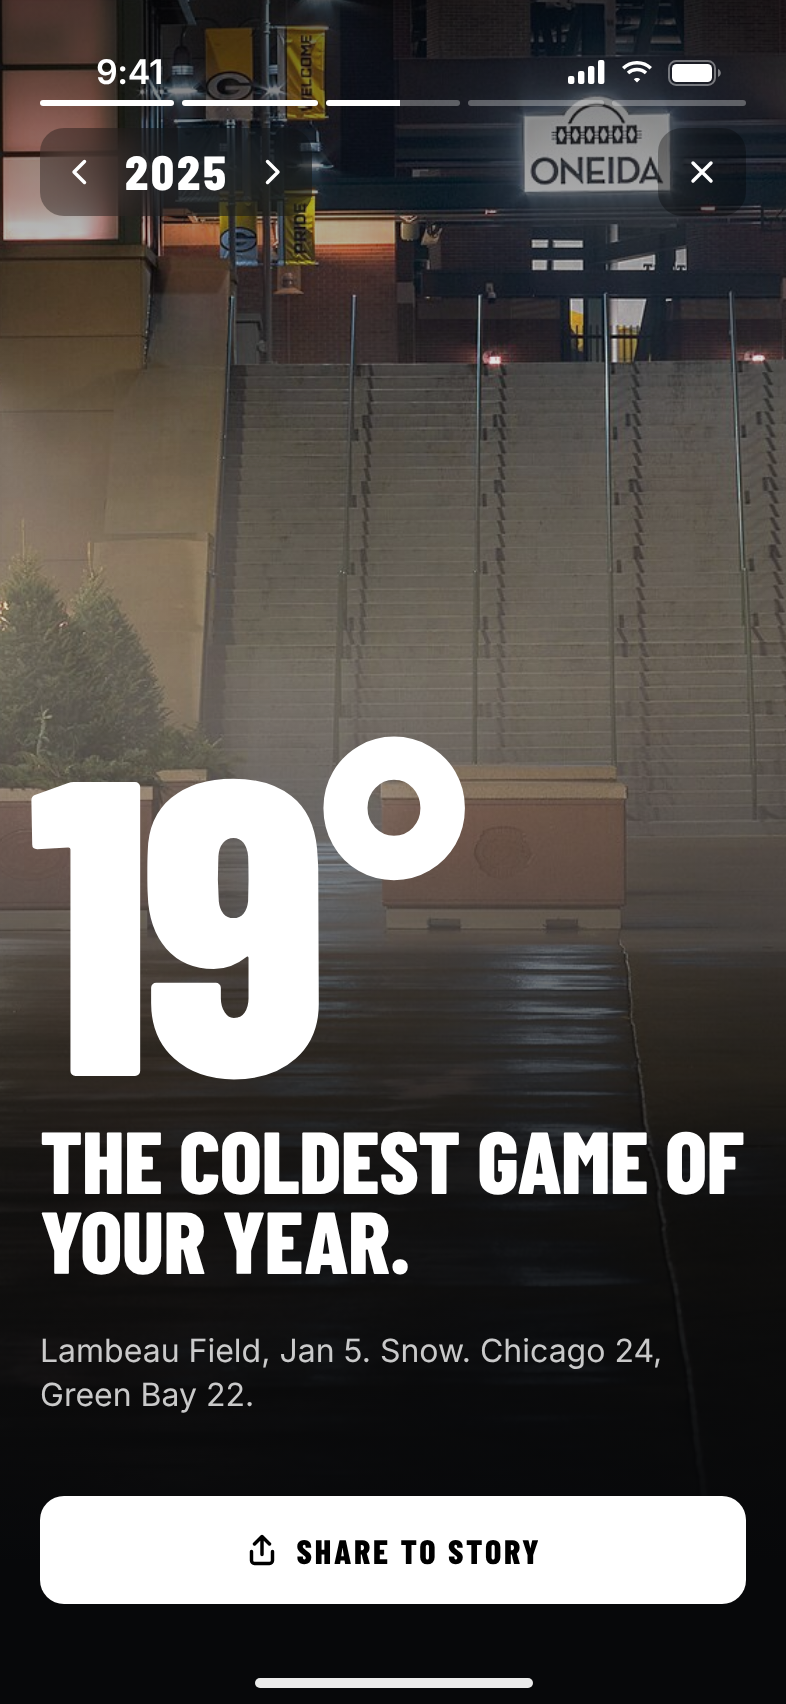
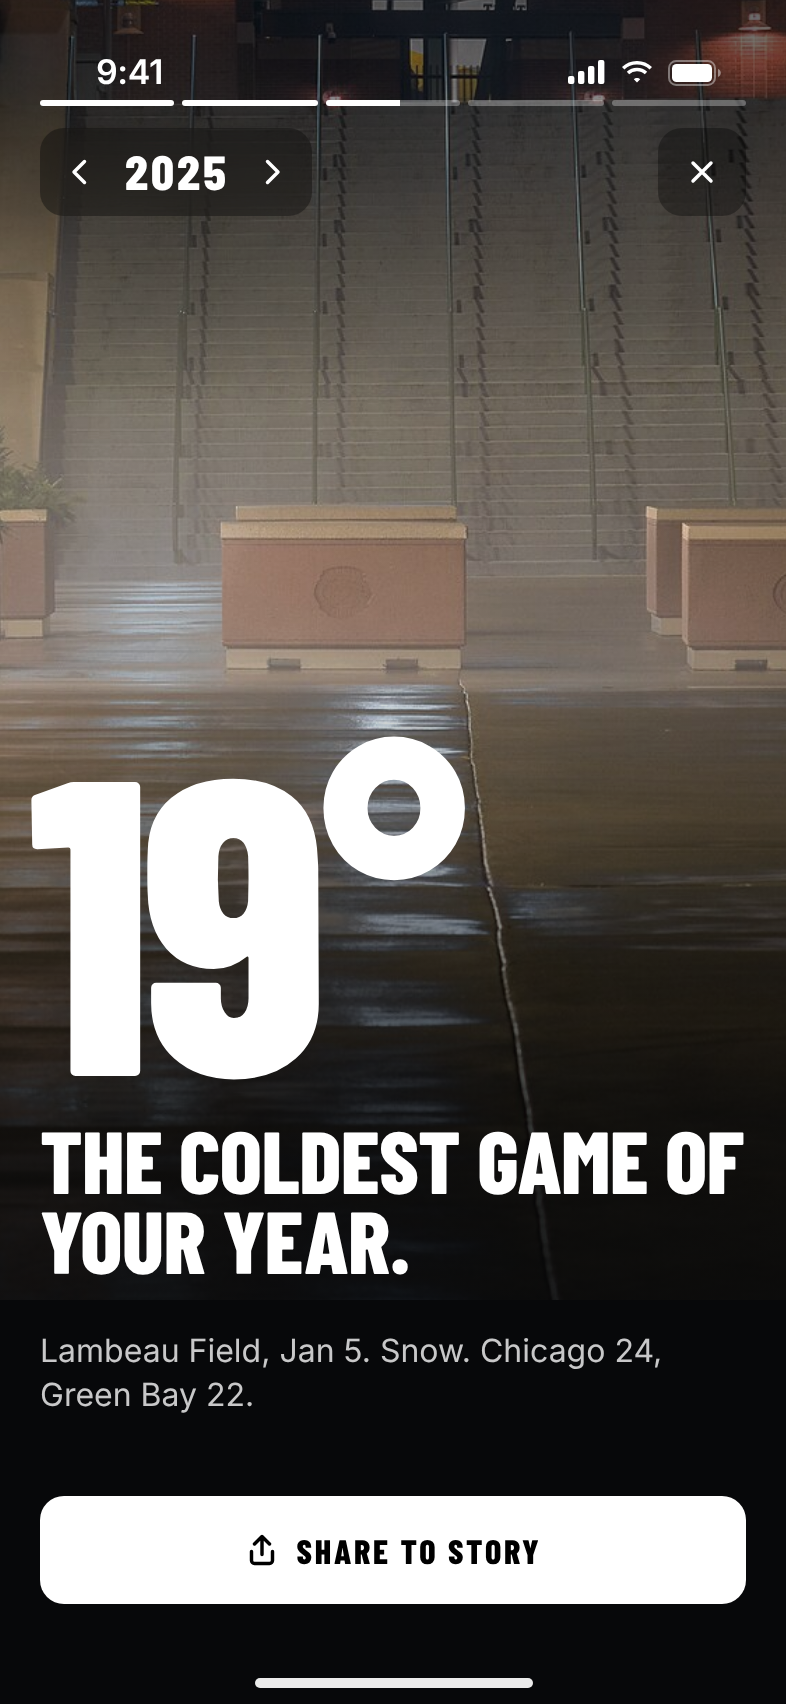
Wrapped revamp mockups in progress
Claude-Session: https://claude.ai/code/session_01YKCsRGYnDsF5Pryete24Wa

diff --git a/mockups/wrapped-revamp/features/wrapped/v2-story-cinema.html b/mockups/wrapped-revamp/features/wrapped/v2-story-cinema.html
@@ -25,7 +25,7 @@
 <div class="segs"></div>
 
 <section class="slide">
-  <img class="photo-fill" src="../../../photos/wrigley-bleachers.jpg" style="width:auto;min-width:100%;object-position:62% 50%;filter:contrast(1.05) saturate(1.05)">
+  <img class="photo-fill" src="../../../photos/wrigley-bleachers.jpg" style="width:auto;min-width:100%;object-position:6% 50%;filter:contrast(1.05) saturate(1.05)">
   <div class="shade"></div>
   <div class="yr">2025</div>
   <div class="tag" style="top:560px;font-size:34px">Five games. Five wins.</div>
@@ -48,7 +48,7 @@
 </section>
 
 <section class="slide">
-  <img class="photo-fill" src="../../../photos/lambeau-concourse.jpg" style="width:1342px;height:900px;max-width:none;left:-480px;top:-120px;filter:contrast(1.05) saturate(.85)">
+  <img class="photo-fill" src="../../../photos/lambeau-concourse.jpg" style="width:1342px;height:900px;max-width:none;left:-560px;top:-250px;filter:contrast(1.05) saturate(.85)">
   <div class="shade"></div>
   <div class="num" style="top:370px;font-size:210px">19°</div>
   <div class="tag" style="top:560px">The coldest game of your year.</div>
@@ -57,7 +57,7 @@
 </section>
 
 <section class="slide">
-  <img class="photo-fill" src="../../../photos/wrigley-scoreboard-wide.jpg" style="object-position:30% 30%;filter:contrast(1.05)">
+  <img class="photo-fill" src="../../../photos/wrigley-scoreboard-wide.jpg" style="width:auto;height:1000px;max-width:none;left:-380px;top:-90px;filter:contrast(1.05)">
   <div class="shade"></div>
   <div class="num" style="top:370px">8<em>–</em>7</div>
   <div class="tag" style="top:560px">Your closest game. One run.</div>
